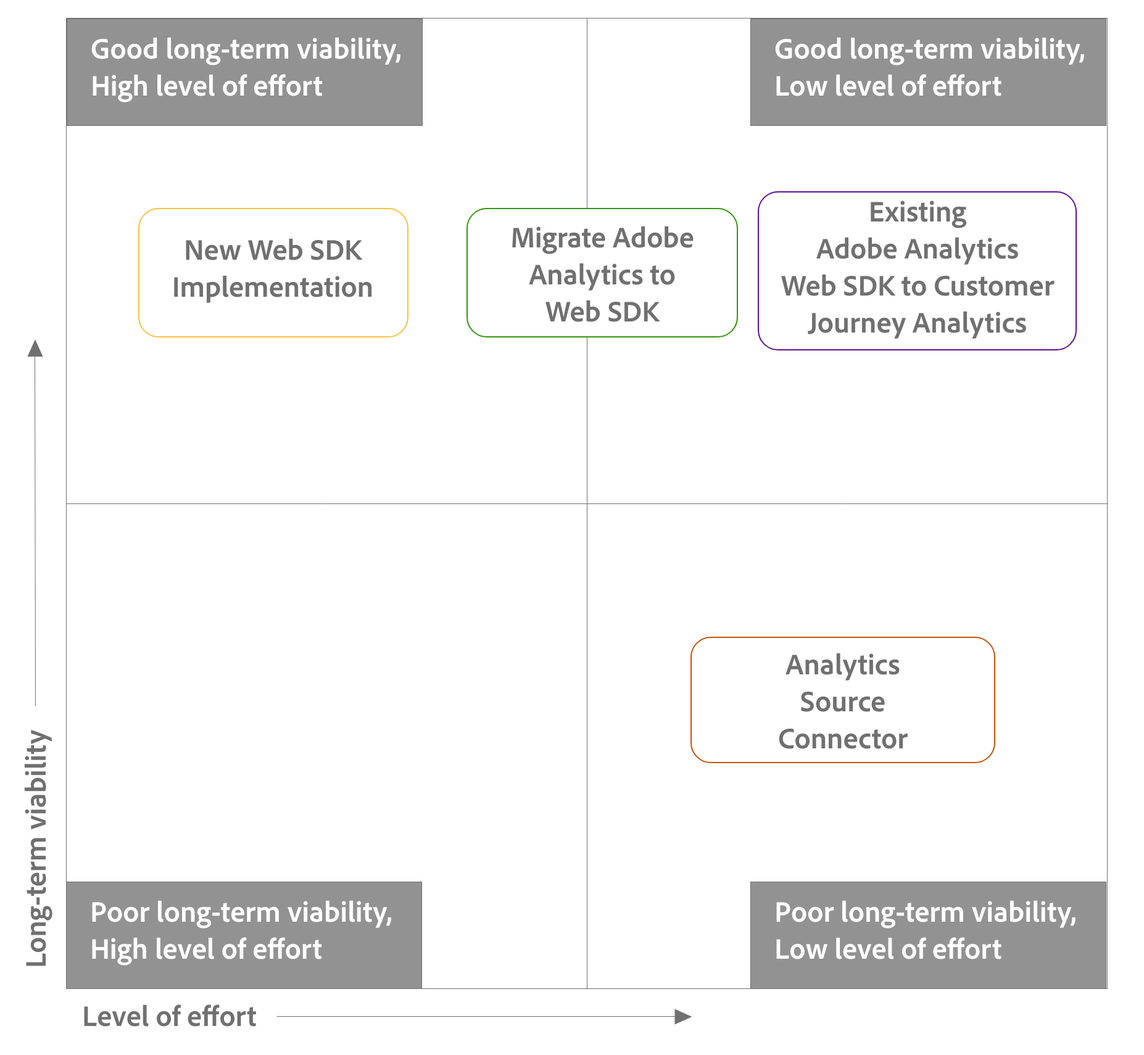
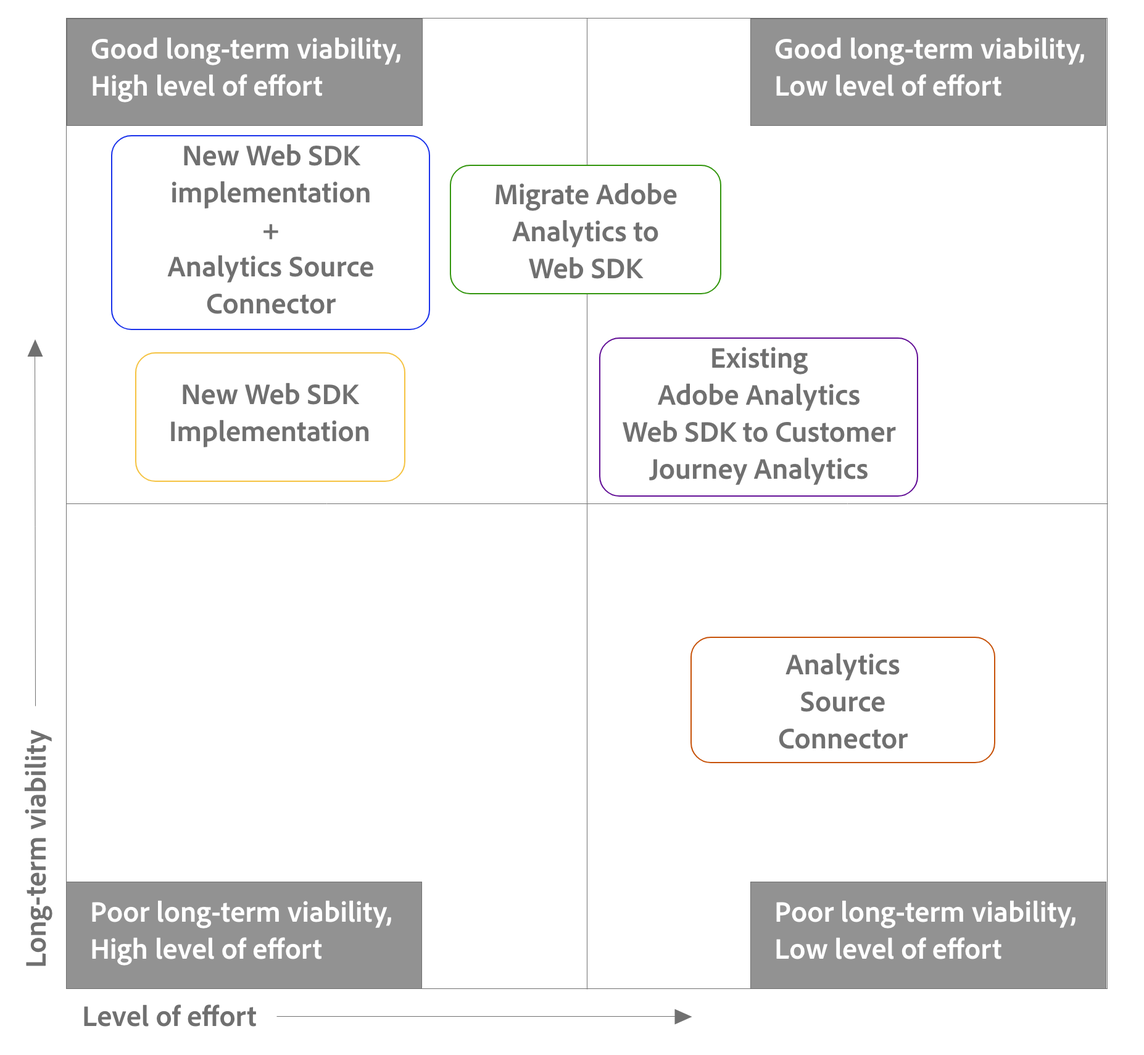
updates

Changed region(s): [[0.5227, 0.186, 0.9223, 0.4649], [0.123, 0.124, 0.3382, 0.4339], [0.4304, 0.155, 0.6149, 0.3099]]

diff --git a/help/getting-started/cja-upgrade/cja-upgrade-path.md b/help/getting-started/cja-upgrade/cja-upgrade-path.md
@@ -54,10 +54,11 @@ The following table lists each upgrade path, its level of effort, and its long-t
 
 | Upgrade path | Level of effort | Long-term viability |
 |---------|----------|---------|
-| **New implementation of the Experience Platform Web SDK**</br>You can begin using Customer Journey Analytics by doing a new implementation of the Experience Platform Web SDK. This allows you to begin sending data to Adobe Experience Platform Edge Network and Customer Journey Analytics. <p>For organizations not yet on the Web SDK, this upgrade path is perhaps the most straightforward in getting data to Edge Network because it requires the fewest number of steps; however, because all of the work is done up front (such as creating the XDM schema), it requires a larger initial effort.</p><p>The basic steps are:</p><ol><li>Create an XDM schema for your organization.</li><li>Implement the Web SDK.</li><li>Send data to Platform.</li></ol>| High | High |
+| (Recommended) **New implementation of the Experience Platform Web SDK with the Analytics source connector**</br>You can begin using Customer Journey Analytics by doing a new implementation of the Experience Platform Web SDK. This allows you to begin sending data to Adobe Experience Platform Edge Network and Customer Journey Analytics. <p>For organizations not yet on the Web SDK, this upgrade path is perhaps the most straightforward in getting data to Edge Network because it requires the fewest number of steps; however, because all of the work is done up front (such as creating the XDM schema), it requires a larger initial effort.</p><p>The basic steps are:</p><ol><li>Set up the Analytics source connector.</li><li>Create an XDM schema for your organization.</li><li>Implement the Web SDK.</li><li>Send data to Platform.</li></ol><p>**Note:** This is the recommended upgrade path when upgrading to Customer Journey Analytics. For more information about this recommended upgrade path, see [Recommended path when upgrading from Adobe Analytics to Customer Journey Analytics](/help/getting-started/cja-upgrade/cja-upgrade-recommendations.md).</p>| High | High |
+| **New implementation of the Experience Platform Web SDK**</br>You can begin using Customer Journey Analytics by doing a new implementation of the Experience Platform Web SDK. This allows you to begin sending data to Adobe Experience Platform Edge Network and Customer Journey Analytics. <p>For organizations not yet on the Web SDK, this upgrade path is perhaps the most straightforward in getting data to Edge Network because it requires the fewest number of steps; however, because all of the work is done up front (such as creating the XDM schema), it requires a larger initial effort.</p><p>The basic steps are:</p><ol><li>Create an XDM schema for your organization.</li><li>Implement the Web SDK.</li><li>Send data to Platform.</li></ol><p>**Note:** This upgrade path can be used independently. However, for best results, we recommended using this upgrade path in conjunction with the Adobe Analytics source connector. For more information about this recommended upgrade path, see [Recommended path when upgrading from Adobe Analytics to Customer Journey Analytics](/help/getting-started/cja-upgrade/cja-upgrade-recommendations.md).</p>| High | High |
 | **Migrate your Adobe Analytics implementation to use the Web SDK**</br>If your Adobe Analytics implementation is AppMeasurement or the Analytics extension, you can migrate it to use the Adobe Experience Platform Web SDK to begin sending data to Edge Network and Adobe Analytics, prior to sending it to Customer Journey Analytics.<p>For organizations not yet on the Web SDK, this is the easiest and smoothest way to get data to Edge Network; it requires more steps, but offers a more methodical transition from Adobe Analytics to Customer Journey Analytics, with more tangible milestones.</p><p>The basic steps are:</p><ol><li>Move your existing Adobe Analytics implementation to the Web SDK and validate that everything is working in Adobe Analytics.</li><li>Create an XDM schema for your organization as you have time.</li><li>Use Datastream mapping to map all of the fields in the data object to your XDM schema.</li><li>Send data to Platform.</li></ol> | Moderate | High |
 | **Configure your existing Adobe Analytics Web SDK implementation**</br>If your Adobe Analytics implementation is already using the Adobe Experience Platform Web SDK, you can begin sending data to Platform by setting up a datastream. Or, if you are already sending data to Platform, you simply need to create a connection between Platform datasets and Customer Journey Analytics.<p>Before you send data to Platform for use in Customer Journey Analytics, consider updating your Adobe Analytics schema for the specific needs of your organization and any other Platform applications you use.</p><p>The basic steps are:</p><ol><li>Begin sending data to Platform.<p>If you are already sending data to Platform with your Adobe Analytics implementation, this step is not required. You simply need to create a connection between Platform datasets and Customer Journey Analytics, as described later in this process.</p></li><li>(Optional) Create an XDM schema for your organization as you have time.</li><li>(Conditional) If you created an XDM schema, use datastream mapping to map all of the fields in the data object to your XDM schema.</li></ol>  | Low | High |
-| **Use the Analytics Source Connector**</br>If your Adobe Analytics implementation is AppMeasurement or the Analytics extension, you can begin sending data to a data view in Customer Journey Analytics.<p>This is the easiest way to get data to Customer Journey Analytics, but is the least viable method in the long term.</p>  | Low | Low |
+| **Use the Analytics Source Connector**</br>If your Adobe Analytics implementation is AppMeasurement or the Analytics extension, you can begin sending data to a data view in Customer Journey Analytics.<p>This is the easiest way to get data to Customer Journey Analytics, but is the least viable method in the long term.</p> <p>**Note:** This upgrade path can be used independently. However, for best results, we recommended using this upgrade path in conjunction with a new implementation of the Experience Platform WebSDK. For more information about this recommended upgrade path, see [Recommended path when upgrading from Adobe Analytics to Customer Journey Analytics](/help/getting-started/cja-upgrade/cja-upgrade-recommendations.md).</p> | Low | Low |
 
 {style="table-layout:auto"}
 
@@ -75,9 +76,9 @@ Contact your Adobe representative if you need more specific advice, guidance, or
 
 |Existing Adobe Analytics implementation | Available upgrade paths |
 |---------|----------|
-| AppMeasurement | <ul><li>New implementation of the Experience Platform Web SDK</li><li>Migrate Adobe Analytics to the Web SDK</li><li>Analytics Source Connector</li></ul>  | 
-| Adobe Analytics extension | <ul><li>New implementation of the Experience Platform Web SDK</li><li>Migrate Adobe Analytics to the Web SDK</li><li>Analytics Source Connector</li></ul> | 
-| Web SDK | <ul><li>Configure the Adobe Analytics Web SDK implementation to send data to Platform</li></ul> | 
+| AppMeasurement | <ul><li>New implementation of the Experience Platform Web SDK</li><li>Migrate Adobe Analytics to the Web SDK</li><li>Analytics Source Connector</li><li>(Recommended) New implementation of the Experience Platform Web SDK with the Analytics Source Connector</li></ul>  | 
+| Adobe Analytics extension | <ul><li>New implementation of the Experience Platform Web SDK</li><li>Migrate Adobe Analytics to the Web SDK</li><li>Analytics Source Connector</li><li>(Recommended) New implementation of the Experience Platform Web SDK with the Analytics Source Connector</li></ul> | 
+| Web SDK | <ul><li>Configure the Adobe Analytics Web SDK implementation to send data to Platform</li><li>(Recommended) New implementation of the Experience Platform Web SDK with the Analytics Source Connector</li></ul> | 
 
 {style="table-layout:auto"}
 
@@ -86,6 +87,12 @@ Contact your Adobe representative if you need more specific advice, guidance, or
 The advantages and disadvantages of a given upgrade path differ depending on your existing Adobe Analytics implementation. 
 
 Before you use the information below to determine which upgrade path is right for you, review the information in [Understand upgrade paths](#understand-migration-methods) if you haven't already.
+
+>[!NOTE]
+>
+>While each of the upgrade paths described in the following sections can be used independently, Adobe recommends a two-pronged upgrade approach when upgrading from Adobe Analytics to Customer Journey Analytics, regardless of your current Adobe Analytics implementation: **the Adobe Analytics source connector** and a **new implementation of the Experience Platform WebSDK**. 
+>
+>For more information about this recommended upgrade path, see [Recommended path when upgrading from Adobe Analytics to Customer Journey Analytics](/help/getting-started/cja-upgrade/cja-upgrade-recommendations.md)
 
 ### For Adobe Analytics implementations using: AppMeasurement and Adobe Analytics extension
 
@@ -97,7 +104,7 @@ Following are the upgrade paths available for organizations who have implemented
 
 | Advantages | Disadvantages |
 |----------|---------|
-|<ul><li>**Provides all the advantages of hosting data in Experience Edge Network**: <p>These advantages include:</p><ul><li>Highly performant reporting and data availability because Adobe Experience Platform is built to power [real-time personalization use cases](https://experienceleague.adobe.com/docs/experience-platform/destinations/ui/activate/configure-personalization-destinations.html)</li><li>Consolidate implementation for Adobe Experience Cloud data collection between other Experience Cloud products (AJO, RTCDP, and so forth)</li><li>Not reliant on Adobe Analytics nomenclature (prop, eVar, event, and so forth)</li></ul></li><li>**Future-proof**: Future implementation updates are easier.</li></ul> | <ul><li>**Requires a new implementation from scratch**: The requirement to do a new implementation from scratch means the following disadvantages: </li><ul><li>**Time consuming**: This is the most time-consuming and demanding upgrade path because it requires that you start over with a new implementation.</li><li>**Must re-create the full schema in XDM**: Before you can start implementing the Web SDK, you have to re-create the full schema in XDM.</li><li>**Must re-create rules and data elements**: Before you can start implementing the Web SDK, you have to re-create any rule conditions and data elements from your Adobe Analytics implementation.</li></ul></ul> |
+|<ul><li>**Provides all the advantages of hosting data in Experience Edge Network**: <p>These advantages include:</p><ul><li>Highly performant reporting and data availability because Adobe Experience Platform is built to power [real-time personalization use cases](https://experienceleague.adobe.com/docs/experience-platform/destinations/ui/activate/configure-personalization-destinations.html)</li><li>Consolidate implementation for Adobe Experience Cloud data collection between other Experience Cloud products (AJO, RTCDP, and so forth)</li><li>Not reliant on Adobe Analytics nomenclature (prop, eVar, event, and so forth)</li></ul></li><li>**Future-proof**: Future implementation updates are easier.</li></ul> | <ul><li>**Requires a new implementation from scratch**: The requirement to do a new implementation from scratch means the following disadvantages: </li><ul><li>**Time consuming**: This is the most time-consuming and demanding upgrade path because it requires that you start over with a new implementation.</li><li>**Must re-create the full schema in XDM**: Before you can start implementing the Web SDK, you have to re-create the full schema in XDM.</li><li>**Must re-create rules and data elements**: Before you can start implementing the Web SDK, you have to re-create any rule conditions and data elements from your Adobe Analytics implementation.</li></ul><li>**Does not account for retaining historical data:** Adobe recommends using the Analytics source connector in conjunction with a new implementation of the Experience Platform Web SDK in order to retain historical data after upgrading to Customer Journey Analytics. For more information about this recommended upgrade path, see [Recommended path when upgrading from Adobe Analytics to Customer Journey Analytics](/help/getting-started/cja-upgrade/cja-upgrade-recommendations.md)</li><li>**Does not account for comparing data from your original implementation with that of your new implementation:** Adobe recommends using the Analytics source connector in conjunction with a new implementation of the Experience Platform Web SDK in order to compare data after upgrading to Customer Journey Analytics. For more information about this recommended upgrade path, see [Recommended path when upgrading from Adobe Analytics to Customer Journey Analytics](/help/getting-started/cja-upgrade/cja-upgrade-recommendations.md)</li></ul> |
 
 {style="table-layout:auto"}
 
@@ -117,7 +124,7 @@ Following are the upgrade paths available for organizations who have implemented
 
 | Advantages | Disadvantages |
 |----------|---------|
-| <ul><li>Least time-consuming and demanding upgrade path. <p>Data is migrated to Customer Journey Analytics quickly with minimal investment</p></li></ul> | <ul><li>**Data is not sent to Edge Network**: <p>This results in the following disadvantages:</p><ul><li>Highest level of [latency](/help/technotes/guardrails.md#latencies) in reporting across all upgrade paths; not optimized for real-time personalization use cases.</li><li>Data cannot be shared with other Adobe Experience Platform applications; it is constrained to Customer Journey Analytics only</li><li>Reliant on Adobe Analytics nomenclature (prop, eVar, event, and so forth)</li></ul><li>**Difficult to move to the Web SDK in the future**: </li><li>**Uses the Analytics Experience Event field group in your schema**: This field group adds many Adobe Analytics events that are not needed in your Customer Journey Analytics schema.  This can lead to a more cluttered, complex schema than what is otherwise needed for Customer Journey Analytics.</li></ul> | 
+| <ul><li>Least time-consuming and demanding upgrade path. <p>Data is migrated to Customer Journey Analytics quickly with minimal investment</p></li></ul> | <ul><li>**Data is not sent to Edge Network**: <p>This results in the following disadvantages:</p><ul><li>Highest level of [latency](/help/technotes/guardrails.md#latencies) in reporting across all upgrade paths; not optimized for real-time personalization use cases.</li><li>Data cannot be shared with other Adobe Experience Platform applications; it is constrained to Customer Journey Analytics only</li><li>Reliant on Adobe Analytics nomenclature (prop, eVar, event, and so forth)</li></ul><li>**Difficult to move to the Web SDK in the future**: Eventually, you will likely want access to the advantages provided by the Experience Platform Web SDK. In order to start using the Experience Platform Web SDK, you must do a new implementation.</li><li>**Uses the Analytics Experience Event field group in your schema**: This field group adds many Adobe Analytics events that are not needed in your Customer Journey Analytics schema.  This can lead to a more cluttered, complex schema than what is otherwise needed for Customer Journey Analytics.</li></ul><p>Because of these disadvantages, Adobe recommends using the Analytics source connector in conjunction with a new implementation of the Experience Platform Web SDK. For more information about this recommended upgrade path, see [Recommended path when upgrading from Adobe Analytics to Customer Journey Analytics](/help/getting-started/cja-upgrade/cja-upgrade-recommendations.md)</p> | 
 
 {style="table-layout:auto"}
 

diff --git a/help/getting-started/cja-upgrade/cja-upgrade-recommendations.md b/help/getting-started/cja-upgrade/cja-upgrade-recommendations.md
@@ -1,53 +1,35 @@
 ---
-title: Upgrade from Adobe Analytics to Customer Journey Analytics
-description: Plan your upgrade from Adobe Analytics to Customer Journey Analytics
+title: Recommended path when upgrading from Adobe Analytics to Customer Journey Analytics
+description: Learn about the recommended path when upgrading from Adobe Analytics to Customer Journey Analytics
 role: Admin
 solution: Customer Journey Analytics
 feature: Basics
 ---
-# Upgrade from Adobe Analytics to Customer Journey Analytics
+# Recommended path when upgrading from Adobe Analytics to Customer Journey Analytics
 
 Customer Journey Analytics is the next generation of analytics. It allows multi-channel data collection (both online and offline data), combined with powerful report-time processing functionality (through the definition of components and derived fields in data views). 
 
-Before you begin the process of upgrading from Adobe Analytics to Customer Journey Analytics, you should understand the benefits of Customer Journey Analytics, as well as the steps required to successfully upgrade.
-
-## Understand the benefits of Customer Journey Analytics 
-
- Following are some of the key benefits: (For a comprehensive list, as well as more information about each of these key features, see [Features available only in Customer Journey Analytics](/help/getting-started/aa-vs-cja/cja-aa.md#adobe-customer-journey-analytics-features-not-available-in-adobe-analytics).) 
-
-* [Multi-channel reporting](/help/getting-started/aa-to-cja-user.md#changes-to-data-architecture)
-
-  Customer Journey Analytics is combined with Experience Platform's ability to hold all kinds of data schemas and types. Collect and report on data from multiple channels, such as digital (Web), Point-of-Sale systems, mobile, CRM systems, and more.
-
-* [Report-time transformations in data views](/help/getting-started/aa-vs-cja/vrs-dataview-sandbox-adc.md#customer-journey-analytics-data-views)
-
-  Data views in Customer Journey Analytics allow you to further interpret data from a connection. You can alter or remove data without changing your implementation, use substrings to manipulate dimensions, create metrics from any value, filter subevents, or use derived fields. All of these transformations are non-destructive. 
-
-* [Transformations apply to historical and new data](/help/getting-started/aa-vs-cja/vrs-dataview-sandbox-adc.md)
-
-  Data View manipulation can be applied to both historical and new data in a non-destructive manner.
-
-* [Derived fields](/help/data-views/derived-fields/derived-fields.md)
-
-  Derived fields allow for report-time transformations to your data. Data can be combined, corrected, or created on the fly and applies retroactively to all reporting.
-
-* [Data views replace virtual report suites](/help/getting-started/aa-to-cja-user.md#changes-to-the-concept-of-virtual-report-suites)
-
-  Data views take the concept of virtual report suites as they exist today and expand it to enable additional controls on the data made available by connections. These changes make general settings like timezone and session time-out intervals configurable and retroactive. 
-
-* [Unlimited customer dimensions and metrics](/help/getting-started/aa-to-cja-user.md#changes-to-the-concept-of-evars-and-props)
-
-  Values can be numeric, text, objects, lists, or mixtures of all. Dimensions can be nested or hierarchical.
-
-## Recommended upgrade process
-
-Regardless of your current Adobe Analytics implementation, Adobe recommends a two-pronged upgrade approach when upgrading from Adobe Analytics to Customer Journey Analytics: the Adobe Analytics source connector and a new implementation of the WebSDK.
+Regardless of your current Adobe Analytics implementation, Adobe recommends a two-pronged upgrade approach when upgrading from Adobe Analytics to Customer Journey Analytics: the Adobe Analytics source connector and a new implementation of the Experience Platform WebSDK.
 
 When used together, this two-pronged approach lays the best foundation for a successful upgrade from Adobe Analytics to Customer Journey Analytics. 
 
+1. **Implement the Experience Platform WebSDK**
+
+   A new implementation of the Experience Platform WebSDK is the second piece of the two-pronged upgrade approach to Customer Journey Analytics. 
+
+   <!-- This will be the defacto way to collect data moving forward, and the Analytics source connector will eventually be turned off. -->
+   
+   A new implementation of the Experience Platform WebSDK is the most performant, straightforward, and future-proof method for implementing Customer Journey Analytics. It provides the best foundation to get the most out of Customer Journey Analytics, by providing the following benefits:
+
+   * Highly performant reporting and data availability because Adobe Experience Platform is built to power real-time personalization use cases
+
+   * Consolidate implementation for Adobe Experience Cloud data collection between other Experience Cloud products (AJO, RTCDP, and so forth)
+
+   * Not reliant on Adobe Analytics nomenclature (prop, eVar, event, and so forth)
+
 1. **Set up the Adobe Analytics source connector**
 
-   During the upgrade to Customer Journey Analytics, the Analytics source connector is an essential piece of a two-pronged upgrade approach. 
+   The Analytics source connector is an essential piece of a two-pronged upgrade approach to Customer Journey Analytics. 
 
    The Analytics source connector allows you to:
 
@@ -59,21 +41,16 @@ When used together, this two-pronged approach lays the best foundation for a suc
    
      You can keep the Analytics source connector running until you are familiar and comfortable with the differences. <!--elaborate on what those differences are? -->
 
-   The Analytics source connector as a stand-alone implementation is not a recommended long-term method for upgrading to Customer Journey Analytics. This is due to high latency, cluttered and complex schemas, reliance of Adobe Analytics nomenclature (prop, eVar, and so forth), and difficulty in moving from the source connector to the recommended WebSDK implementation.
-
-1. **Implement the WebSDK**
-
-   A new implementation of the WebSDK is the second piece of the two-pronged upgrade approach to Customer Journey Analytics. 
+   The Analytics source connector as a stand-alone implementation is not a recommended long-term method for upgrading to Customer Journey Analytics. This is because of high latency, cluttered and complex schemas, reliance on Adobe Analytics nomenclature (prop, eVar, and so forth), and difficulty in eventually moving from the source connector to the recommended WebSDK implementation.
    
-   A new implementation of the WebSDK is the most performant, straightforward, and future-proof method for implementing Customer Journey Analytics. It provides the best foundation to get the most out of Customer Journey Analytics, by providing the following benefits:
 
-   * Highly performant reporting and data availability because Adobe Experience Platform is built to power real-time personalization use cases
 
-   * Consolidate implementation for Adobe Experience Cloud data collection between other Experience Cloud products (AJO, RTCDP, and so forth)
 
-   * Not reliant on Adobe Analytics nomenclature (prop, eVar, event, and so forth)
-   
-## AppMeasurement or Analytics Extension implementations
+
+
+
+
+
 
 
 

diff --git a/help/getting-started/cja-getting-started.md b/help/getting-started/cja-getting-started.md
@@ -21,7 +21,7 @@ Customer Journey Analytics is available for customers who
 
 | Task | Details |
 | --- | --- |
-| **Step 1: If you are upgrading from Adobe Analytics to Customer Journey Analytics: Choose a upgrade path and send data to Adobe Experience Platform** | There are various paths available when upgrading from Adobe Analytics to Customer Journey Analytics. Each possible upgrade path has its own advantages and disadvantages, and a path that is right for one organization might not make sense for another. <p>To begin upgrading from Adobe Analytics to Customer Journey Analytics, see [Get started with the upgrade to Customer Journey Analytics](/help/getting-started/cja-upgrade/cja-upgrade-getstarted.md). <!-- [Utilizing Adobe Analytics report suite data in Customer Journey Analytics](/help/getting-started/aa-vs-cja/aa-data-in-cja.md) --> </p> |
+| **Step 1: If you are upgrading from Adobe Analytics to Customer Journey Analytics: Choose an upgrade path and send data to Adobe Experience Platform** | There are various paths available when upgrading from Adobe Analytics to Customer Journey Analytics. Each possible upgrade path has its own advantages and disadvantages, and a path that is right for one organization might not make sense for another. <p>To begin upgrading from Adobe Analytics to Customer Journey Analytics, do either of the following:</p><ul><li>Follow the upgrade path recommended by Adobe. For more information, see [Recommended path when upgrading from Adobe Analytics to Customer Journey Analytics](/help/getting-started/cja-upgrade/cja-upgrade-recommendations.md).</li><li>Learn about all available upgrade paths and choose the path that best suits your organization. For more information, see [Get started with the upgrade to Customer Journey Analytics](/help/getting-started/cja-upgrade/cja-upgrade-getstarted.md).</li></ul> |
 | **Step 2: Get other data into Adobe Experience Platform** | This step, performed in Adobe Experience Platform, involves several sub steps:<ul><li>**Step 2a: Prepare your data schema**: Use [Adobe Experience Data Model (XDM)](https://experienceleague.adobe.com/docs/experience-platform/xdm/home.html) to standardize customer experience data and [define schemas](https://experienceleague.adobe.com/docs/experience-platform/xdm/tutorials/create-schema-ui.html) for customer experience management.</li><li>**Step 2b: Create a dataset based on the schema**: Data in Platform consists of datasets, such as email datasets, CRM datasets, POS datasets, the Adobe Analytics dataset, etc.. Each dataset consists of a schema and batches of data. You can [create a dataset in Experience Platform](https://experienceleague.adobe.com/docs/platform-learn/getting-started-for-data-architects-and-data-engineers/create-datasets.html).</li><li>**Step 2c: Ingest data into Experience Platform**: Here, you have several options.</li></ul> |
 | **Step 3: Create connections between platform datasets and Customer Journey Analytics** | A connection lets you integrate datasets from Adobe Experience Platform into Workspace. In order to report on Experience Platform datasets, you first have to establish a connection between datasets in Experience Platform and Workspace.<br>See [Create or edit a connection](/help/connections/create-connection.md). |
 | **Step 4: Create data views** | A data view is a "filtered" view of the data. You can create different data views for the same connection, with different settings for visit timeout, attribution, etc.. You can create multiple data views for a single dataset.<br>See [Create a data view](/help/data-views/create-dataview.md). |

diff --git a/help/getting-started/cja-upgrade/cja-upgrade-appmeasurement-analyticsextension.md b/help/getting-started/cja-upgrade/cja-upgrade-appmeasurement-analyticsextension.md
@@ -1,0 +1,27 @@
+---
+title: Upgrade from Adobe Analytics to Customer Journey Analytics
+description: Plan your upgrade from Adobe Analytics to Customer Journey Analytics
+role: Admin
+solution: Customer Journey Analytics
+feature: Basics
+---
+# Upgrade to Customer Journey Analytics with AppMeasurement or the Analytics Extension
+
+The following sections show the differences between an AppMeasurement or an Analytics Extension implementation that sends data only to Adobe Analytics, 
+
+## AppMeasurement or Analytics Extension implementation with Adobe Analytics only
+
+When your Adobe Analytics environment is implemented with AppMeasurement or the Analytics Extension, data is sent directly to Adobe Analytics, as depicted in the following graphic:
+
+![Anlytics WebSDK implementation AA only](assets/appmeasurement-analytics-extension-aa.png)
+
+## AppMeasurement or Analytics Extension implementation with both Adobe Analytics and Customer Journey Analytics
+
+To upgrade to Customer Journey Analytics from an Adobe Analytics environment that is implemented with the AppMeasurement or the Analytics Extension, Adobe recommends a two-pronged approach: First, configure a new implementation of the Experience Platform Web SDK to begin sending data to Edge. When data is in Edge, you can send it to Adobe Experience Platform, and from Platform to Customer Journey Analytics. Second, set up the Analytics source connector. 
+
+This configuration is depicted in the following graphic with changes from the original Adobe Analytics implementation shown in green:
+
+![Analytics Extension implementation](assets/appmeasurement-analytics-extension-cja.png)
+
+
+

diff --git a/help/getting-started/cja-upgrade/cja-upgrade-websdk-extension.md b/help/getting-started/cja-upgrade/cja-upgrade-websdk-extension.md
@@ -1,0 +1,23 @@
+---
+title: Upgrade from Adobe Analytics to Customer Journey Analytics
+description: Plan your upgrade from Adobe Analytics to Customer Journey Analytics
+role: Admin
+solution: Customer Journey Analytics
+feature: Basics
+---
+# Upgrade to Customer Journey Analytics from the WebSDK Extension
+
+## WebSDK Extension implementation with Adobe Analytics only
+
+When your Adobe Analytics environment is implemented with the WebSDK Extension, data is sent to Experience Platform Edge and then to Adobe Analytics, as depicted in the following graphic:
+
+![Anlytics WebSDK implementation AA only](assets/websdk-extension-aa.png)
+
+## WebSDK Extension implementation with both Adobe Analytics and Customer Journey Analytics
+
+To upgrade to Customer Journey Analytics from an Adobe Analytics environment that is implemented with the WebSDK, Adobe recommends a two-pronged approach: First, begin sending data from Edge to Adobe Experience Platform, and from Platform to Customer Journey Analytics. Second, set up the Analytics source connector. 
+
+This configuration is depicted in the following graphic, with changes from the original Adobe Analytics implementation shown in green:
+
+![Analytics Extension implementation](assets/websdk-extension-cja.png)
+
